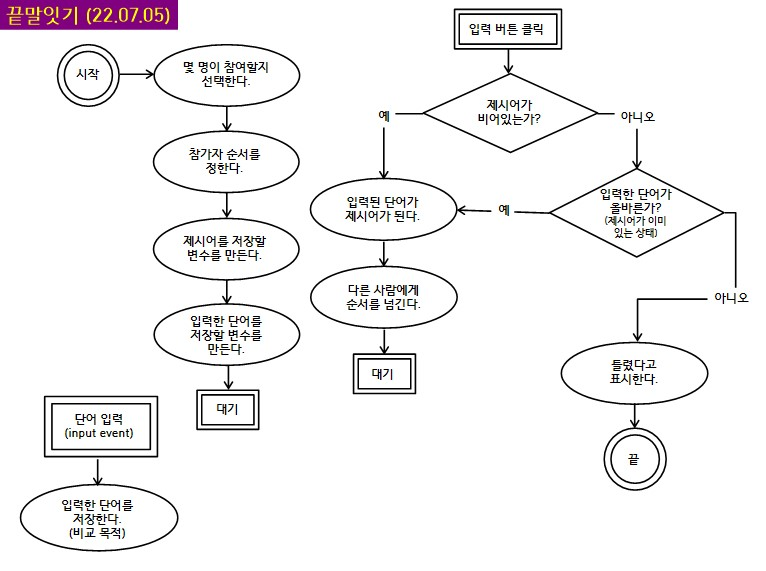
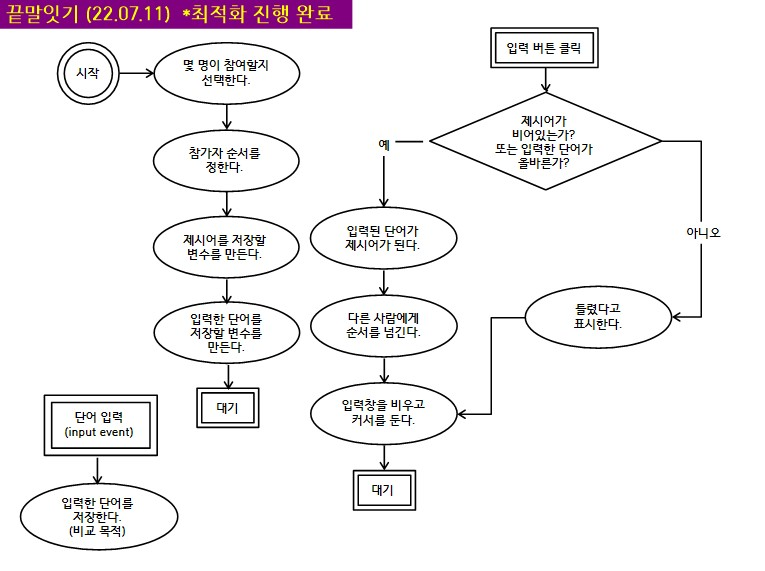
틀렸을 때 오류 표시하기 외 1개 - 수강
틀렸을 때 오류 표시하기,
순서도 최적화하기(and, or)

diff --git a/zerocho6_newStart.html b/zerocho6_newStart.html
@@ -36,37 +36,24 @@
         let newWord; //미리 만든 변수: 새로 입력한 단어를 저장할 변수 = 새로 입력한 단어
 
         const onClickButton = () => {
-            if(!word) { //제시어가 비어있는가? (맨 처음 시작되는...?)
-                //비어 있다.
+            if(!word || word[word.length - 1] === newWord[0]) { //제시어가 비어있는가? 또는 입력한 단어가 올바른가?
                 word = newWord; //제시어(빈값도 포함)는 새로 입력한 단어가 된다.
                 $word.textContent = word; //html text
-                $input.value = ''; //인풋 작성 후 비워주는 센스
 
-                const order = parseInt($order.textContent); //현재 순서(html의 order 문자열을 숫자로 변경하기 위해 parseInt 사용)
+                const order = parseInt($order.textContent); //현재 3순서(html의 order 문자열을 숫자로 변경하기 위해 parseInt 사용)
 
                 if(order + 1 > number) { // 또는 order === number
                     $order.textContent = 1; // html order의 텍스트를 1로 변경
                 } else {
                     $order.textContent = order + 1;  // html order의 텍스트를 현재 순서 + 1(즉, 다음 순서)로 변경
                 }
-            } else {
-                //비어 있지 않다.
-                if(word[word.length - 1] === newWord[0]) { //올바른가: word의 끝 글자와 newWord의 첫번째 글자가 같은가?
-                    word = newWord; //제시어(빈값도 포함)는 새로 입력한 단어가 된다.
-                    $word.textContent = word; //html text
-                    $input.value = ''; //인풋 작성 후 비워주는 센스
 
-                    const order = parseInt($order.textContent); //현재 순서(html의 order 문자열을 숫자로 변경하기 위해 parseInt 사용)
-
-                    if(order + 1 > number) { // 또는 order === number
-                        $order.textContent = 1; // html order의 텍스트를 1로 변경
-                    } else {
-                        $order.textContent = order + 1; // html order의 텍스트를 현재 순서 + 1(즉, 다음 순서)로 변경
-                    }  
-                } else { //올바르지 않는가
-
-                }
+            } else { //올바르지 않는가
+                alert('올바르지 않은 단어입니다.');
             }
+
+            $input.value = ''; //인풋 작성 후 비워주는 센스
+            $input.focus(); //인풋에 포커스
         }
 
         // 인풋에 글자를 입력했을 때 값(newWord)을 가져오는 함수 = 단어 입력 input event
@@ -83,6 +70,7 @@
         // 1. 세 글자 이상의 단어를 저장하고 있는 word(wordTemp 대체)라는 변수가 있을 때 뒤에서 세 번째 글자를 가져오는 코드를 작성하세요.
         let wordTemp = '안녕하세요';
         console.log(wordTemp[wordTemp.length - 3]);
+
     </script>
 
     <!-- <script> 
